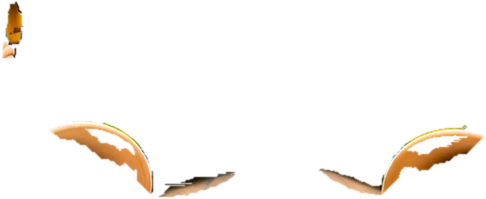
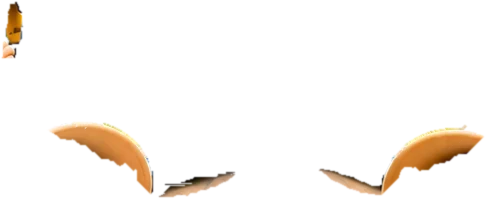
立ち上げの画面（スプラッシュ）を入れる: アイコンの黄色の地に双眼鏡とロゴがふわっと出て、ホームの絵が届き裏でワールドの組み立てが済んだら消える（1.6〜4 秒、タップで消える、動きをへらす時はフェード、JS が動かなくても 7 秒で消える）。ホームのボタンはスプラッシュのあとに出す。タブレット縦・横で右の女の子の帽子の下の髪が前の層から抜けていて、レンズの絵が替わると穴に見えていたのを直す（くにの指摘）。README・DEVLOG

Changed region(s): [[0.8025, 0.6332, 0.9877, 0.7839], [0.1543, 0.603, 0.3086, 0.7839]]

diff --git a/index.html b/index.html
@@ -33,6 +33,54 @@
     <!-- おはなしの最後のロゴ（ANIMAL WORLD LIVE）だけ: 太くて丸い Baloo 2 -->
     <link rel="stylesheet" href="https://fonts.googleapis.com/css2?family=Baloo+2:wght@800&text=ANIMLWORDVE&display=swap" />
     <link rel="stylesheet" href="/src/style.css" />
+    <!-- 立ち上げの画面（スプラッシュ）: JS より先に出すので、見た目はここに直接書く。アイコンと同じ黄色の地に双眼鏡とロゴ。
+         消すのは src/ui/splash.ts（ホームの絵が読めたら）。JS が動かない時も 7 秒で CSS だけで消える -->
+    <link rel="preload" as="image" type="image/webp" href="/splash-bino.webp" />
+    <style>
+      .splash {
+        position: fixed;
+        inset: 0;
+        z-index: 1000;
+        display: flex;
+        flex-direction: column;
+        align-items: center;
+        justify-content: center;
+        gap: clamp(6px, 2vmin, 18px);
+        background: #fbcd03;
+        transition: opacity 0.6s ease, visibility 0s linear 0.6s;
+        animation: splash-auto 0.6s ease 7s forwards;
+      }
+      .splash-bino {
+        width: clamp(170px, min(56vw, 40vh), 330px);
+        height: auto;
+        filter: drop-shadow(0 0.6vmin 1.2vmin rgba(120, 70, 0, 0.25));
+        animation: splash-in 1s cubic-bezier(0.2, 0.9, 0.3, 1) both, splash-float 2.6s ease-in-out 1s infinite;
+      }
+      .splash-logo {
+        font-family: 'Baloo 2', 'Zen Maru Gothic', 'Hiragino Maru Gothic ProN', system-ui, sans-serif;
+        font-weight: 800;
+        font-size: clamp(26px, 8.6vmin, 60px);
+        line-height: 1;
+        letter-spacing: 0.01em;
+        white-space: nowrap;
+        color: #fff;
+        -webkit-text-stroke: 0.18em #1f2a44;
+        paint-order: stroke fill;
+        text-shadow: 0 0.1em 0 #1f2a44;
+        animation: splash-in 0.9s cubic-bezier(0.2, 0.9, 0.3, 1) 0.3s both;
+      }
+      .splash.is-out { opacity: 0; visibility: hidden; }
+      .splash.is-out .splash-bino { scale: 1.06; transition: scale 0.6s ease; }
+      .splash.is-still .splash-bino,
+      .splash.is-still .splash-logo { animation: splash-fade 0.5s ease both; }
+      .splash.is-still.is-out .splash-bino { scale: 1; }
+      @keyframes splash-in { from { opacity: 0; transform: translateY(12px) scale(0.86); } to { opacity: 1; transform: none; } }
+      @keyframes splash-float { 0%, 100% { translate: 0 0; } 50% { translate: 0 -6px; } }
+      @keyframes splash-fade { from { opacity: 0; } to { opacity: 1; } }
+      @keyframes splash-auto { to { opacity: 0; visibility: hidden; } }
+      /* スプラッシュが出ている間は、ホームのボタンの出てくる動きを止めておく（消えてから「ぽん」と出る） */
+      .is-splash .home, .is-splash .home * { animation-play-state: paused !important; }
+    </style>
     <!-- ホームのキービジュアル: 画面の縦横比に合う 1 枚だけを先に読む（CSS の切り替えと同じ境目） -->
     <link rel="preload" as="image" type="image/webp" href="/home/kv-phone-portrait.webp" media="(max-aspect-ratio: 13/20)" />
     <link rel="preload" as="image" type="image/webp" href="/home/kv-tablet-portrait.webp" media="(min-aspect-ratio: 13/20) and (max-aspect-ratio: 1/1)" />
@@ -48,6 +96,20 @@
     <link rel="preload" as="image" type="image/webp" href="/home/kv-phone-landscape-front.webp" media="(min-aspect-ratio: 20/13)" />
   </head>
   <body>
+    <div id="splash" class="splash" aria-hidden="true">
+      <img class="splash-bino" src="/splash-bino.webp" alt="" width="400" height="310" decoding="async" />
+      <span class="splash-logo">ANIMAL WORLD LIVE</span>
+    </div>
+    <script>
+      // 動きをへらす設定（設定画面か OS）なら、ふわっと大きくなる動きはやめてフェードだけ
+      document.documentElement.classList.add('is-splash')
+      try {
+        var m = localStorage.getItem('awl.reduceMotion')
+        if (m === '1' || (m !== '0' && matchMedia('(prefers-reduced-motion: reduce)').matches)) document.getElementById('splash').classList.add('is-still')
+      } catch (e) {}
+      // JS（本体）が動かない時の保険: 7 秒で消えたらホームの動きも動かす
+      setTimeout(function () { document.documentElement.classList.remove('is-splash') }, 7600)
+    </script>
     <!-- 自作 SVG アイコン。OS の絵文字は使わない -->
     <svg width="0" height="0" style="position: absolute" aria-hidden="true">
       <symbol id="i-bino" viewBox="0 0 40 40"><g transform="rotate(-16 20 20)"><path d="M9 5h6v7l3 2v15a3 3 0 0 1-3 3H7a3 3 0 0 1-3-3V14l3-2z" /><path d="M25 5h6v7l3 2v15a3 3 0 0 1-3 3H25a3 3 0 0 1-3-3V14l3-2z" /><rect x="15" y="10" width="10" height="6" rx="1.5" opacity=".85" /><circle cx="20" cy="8" r="2.4" opacity=".85" /><ellipse cx="11" cy="32" rx="7" ry="2.6" /><ellipse cx="29" cy="32" rx="7" ry="2.6" /><ellipse cx="11" cy="32" rx="4.6" ry="1.7" fill="#2b1d12" opacity=".6" /><ellipse cx="29" cy="32" rx="4.6" ry="1.7" fill="#2b1d12" opacity=".6" /></g></symbol>

diff --git a/src/ui/splash.ts b/src/ui/splash.ts
@@ -1,0 +1,48 @@
+// 立ち上げの画面（スプラッシュ、見た目は index.html に直接書いてある）を消す。
+// ホームの絵（画面に合う 1 枚）とロゴの字が届いたら、スプラッシュの裏で重い準備（ワールドの組み立て）を済ませてから、ふわっと消す。
+// 早くても 1.6 秒は見せ、遅くても 4 秒で消す（届かなくてもホームは動く。白い画面で待たせない）。タップでもすぐ消える
+const MIN_MS = 1600
+const MAX_MS = 4000
+
+function kvLoaded(): Promise<void> {
+  const home = document.getElementById('home')
+  const url = home ? getComputedStyle(home).getPropertyValue('--kv').match(/url\(['"]?([^'")]+)/)?.[1] : undefined
+  if (!url) return Promise.resolve()
+  return new Promise((resolve) => {
+    const img = new Image()
+    img.onload = img.onerror = () => resolve()
+    img.src = url
+  })
+}
+
+export function hideSplash(behind?: () => void): void {
+  const el = document.getElementById('splash')
+  const root = document.documentElement
+  if (!el) {
+    root.classList.remove('is-splash')
+    behind?.()
+    return
+  }
+  let done = false
+  const out = () => {
+    if (done) return
+    done = true
+    el.classList.add('is-out')
+    // 消え始めたらホームのボタンを「ぽん」と出す
+    root.classList.remove('is-splash')
+    setTimeout(() => el.remove(), 700)
+  }
+  const min = el.classList.contains('is-still') ? 900 : MIN_MS
+  const fonts = document.fonts?.ready.then(() => undefined) ?? Promise.resolve()
+  void Promise.all([kvLoaded(), fonts]).then(() => {
+    if (done) return
+    // スプラッシュが描かれてから重い準備をする
+    setTimeout(() => {
+      if (done) return
+      behind?.()
+      setTimeout(out, Math.max(0, min - performance.now()))
+    }, 60)
+  })
+  setTimeout(out, Math.max(0, MAX_MS - performance.now()))
+  el.addEventListener('pointerdown', out, { once: true })
+}

diff --git a/src/main.ts b/src/main.ts
@@ -34,6 +34,7 @@ import { createMapView } from './ui/map'
 import { createJoystick } from './ui/joystick'
 import { createHome } from './ui/home'
 import { createStory } from './ui/story'
+import { hideSplash } from './ui/splash'
 import { createIris } from './ui/iris'
 import { REGION_AMB, REGION_BGM, sound } from './audio/sound'
 import { createSettings } from './ui/settings'
@@ -1639,6 +1640,9 @@ function main(): void {
       world = null
     }
   }
+  // 立ち上げの画面（スプラッシュ）が出ている間に組み立てる（約 2 秒止まるのを、ホームが出たあとにしない）。
+  // スプラッシュが先に消えた時（ホームの絵が 4 秒で届かない等）は、下の後回しの準備で組み立てる
+  hideSplash(prewarm)
   const idle = (window as unknown as { requestIdleCallback?: (fn: () => void, o?: { timeout: number }) => void }).requestIdleCallback
   window.setTimeout(() => {
     if (idle) idle(prewarm, { timeout: 1500 })

diff --git a/DEVLOG.md b/DEVLOG.md
@@ -1049,3 +1049,15 @@
 - 原因: ボタンは `transform: translateX(-50%)` で真ん中に寄せていた。出てくる時の動き（`home-pop`）も `transform: scale()` を使うので、動いている間（0.35〜1.05 秒）は寄せが上書きされて、幅の半分（スマホ縦で 66px）右にずれていた。動きが終わった瞬間に真ん中へ飛んでいた
 - 修正: 寄せを `translate` プロパティに分けた（横にしたスマホの「のぞいてみる」の右どなりも同じ）
 - 検証: ヘッドレス Chrome で動きの間のボタンの中心を毎フレーム測った。直す前はスマホ縦で 1 秒ほど +66px → 0。直したあとは PC（1280×800）・スマホ縦（390×844）・スマホ横（844×390）のどれも、動きの間ずっと同じ位置
+
+## 2026-11-06 立ち上げの画面（スプラッシュ）と、右の女の子の帽子の穴
+
+- 指示: くにの「アプリを立ち上げた時に、最初にふわって表示される画面を入れてほしい」「右の帽子の女の子の、帽子が双眼鏡とかぶっている所が穴が空いたみたいになっている」（タブレット縦のスクショつき。レンズは北の世界）
+- 帽子の原因: 双眼鏡にかかる手・帽子を、前に重ねる層（`kv-*-front.webp`）に切り抜いている。タブレット縦では、帽子のつばの真下の髪がレンズの円の中に入っているのに、その層から抜けていた。左右のレンズで 449px と 513px。タブレット横でも 188px 抜けていた。レンズの絵がライオン（元の絵のまま）の時は見えない。北の世界・ジャングル・南半球に替わると、そこだけレンズの絵（雪など）が出て、穴に見えていた。スマホ縦・横は、帽子がレンズにかかっていないので出ない
+- 帽子の修正: 層の中で囲まれて抜けている所を、元の絵の色で埋めた。まわり 2px の半透明は不透明にした（つばの中に細い白い線が出ていた）。レンズの円の中の縁の半透明は、内側の色に寄せた（元の絵の草の緑がにじまないように）。タブレット縦・横の 2 枚を作り直した
+- スプラッシュ: アイコンと同じ黄色（#fbcd03）の地に、双眼鏡とロゴ（ANIMAL WORLD LIVE、Baloo 2）がふわっと出て、浮かぶ。見た目は `index.html` に直接書いたので、本体の JS より先に出る。双眼鏡はアイコン（`icon-512.png`）の黄色い地を外側からつながる所だけ抜いて切り抜いた（そのまま置くと、地の色の差で四角い枠がうっすら見えた）。影は CSS で付けた（`public/splash-bino.webp` 20KB）
+- 消える時: `src/ui/splash.ts` がホームの絵とロゴの字を待つ。届いたら、スプラッシュの裏でワールドの組み立て（約 2 秒、そのあいだタップも効かない）を済ませてから、ふわっと消す。これまでは組み立てがホームの出た直後に走っていた。早くても 1.6 秒・遅くても 4 秒で消える。タップでもすぐ消える。動きをへらす設定ではフェードだけ（早くても 0.9 秒）。JS が動かない時も、7 秒で CSS だけで消える。ホームのボタンの「ぽん」と出る動きは、スプラッシュが出ている間は止めておき、消えてから出る
+- 検証: ヘッドレス Chrome で確かめた
+  - 帽子: 北の世界のレンズで、直す前と直したあとの拡大を比べた。直したあとは、元の絵（ライオンの時）と同じ髪とつばになった。タブレット横も同じ。スマホ縦・横は北の世界でも帽子にかからない
+  - スプラッシュ: スマホ縦（390×844）・PC（1280×800）・スマホ横（844×390）で表示を見た。組み立ては 0.5〜2.3 秒にスプラッシュの裏で済み、消えたあとに本体が止まる時間はない。「物語をみる」はスプラッシュが消えた 0.4 秒後に出る。動きをへらす設定ではフェードだけになる。消えたあと「のぞいてみる」→ 子を選ぶ → おはなし → ワールドの空撮まで進んだ。`npm run build` 通過
+- 未確認: iPhone 実機（ホーム画面から開いた時に、OS の起動画面からつながって見えるか）
